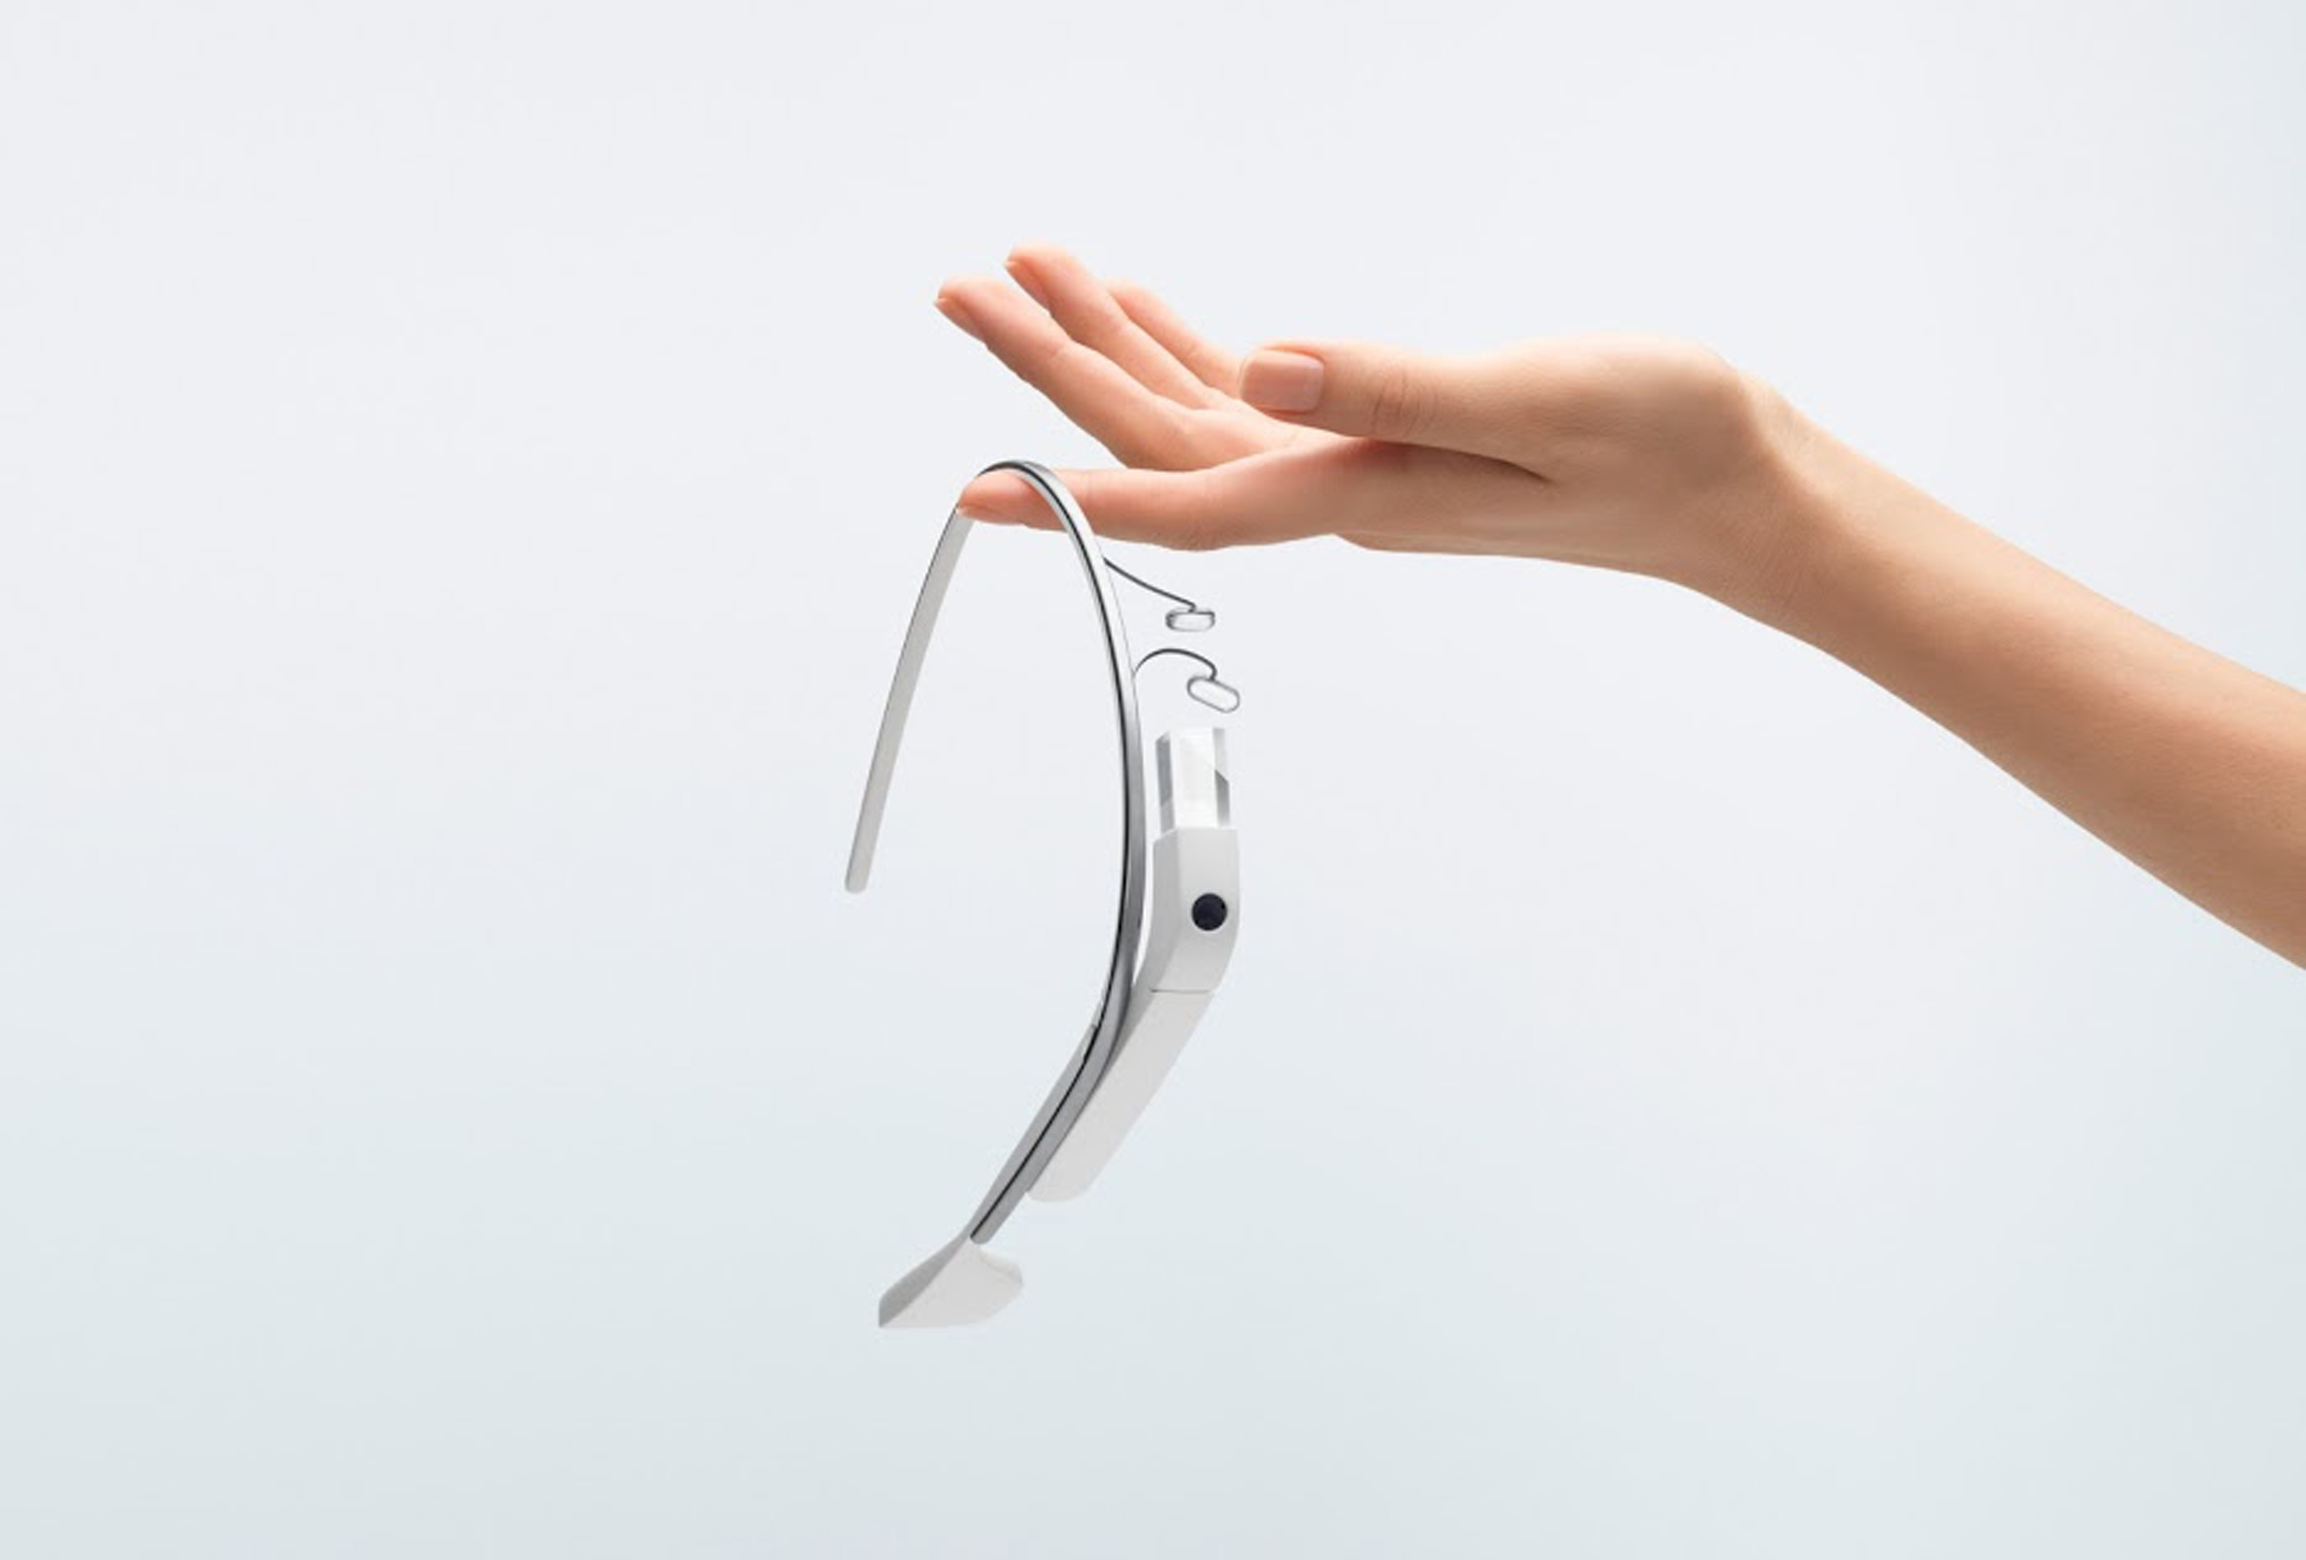
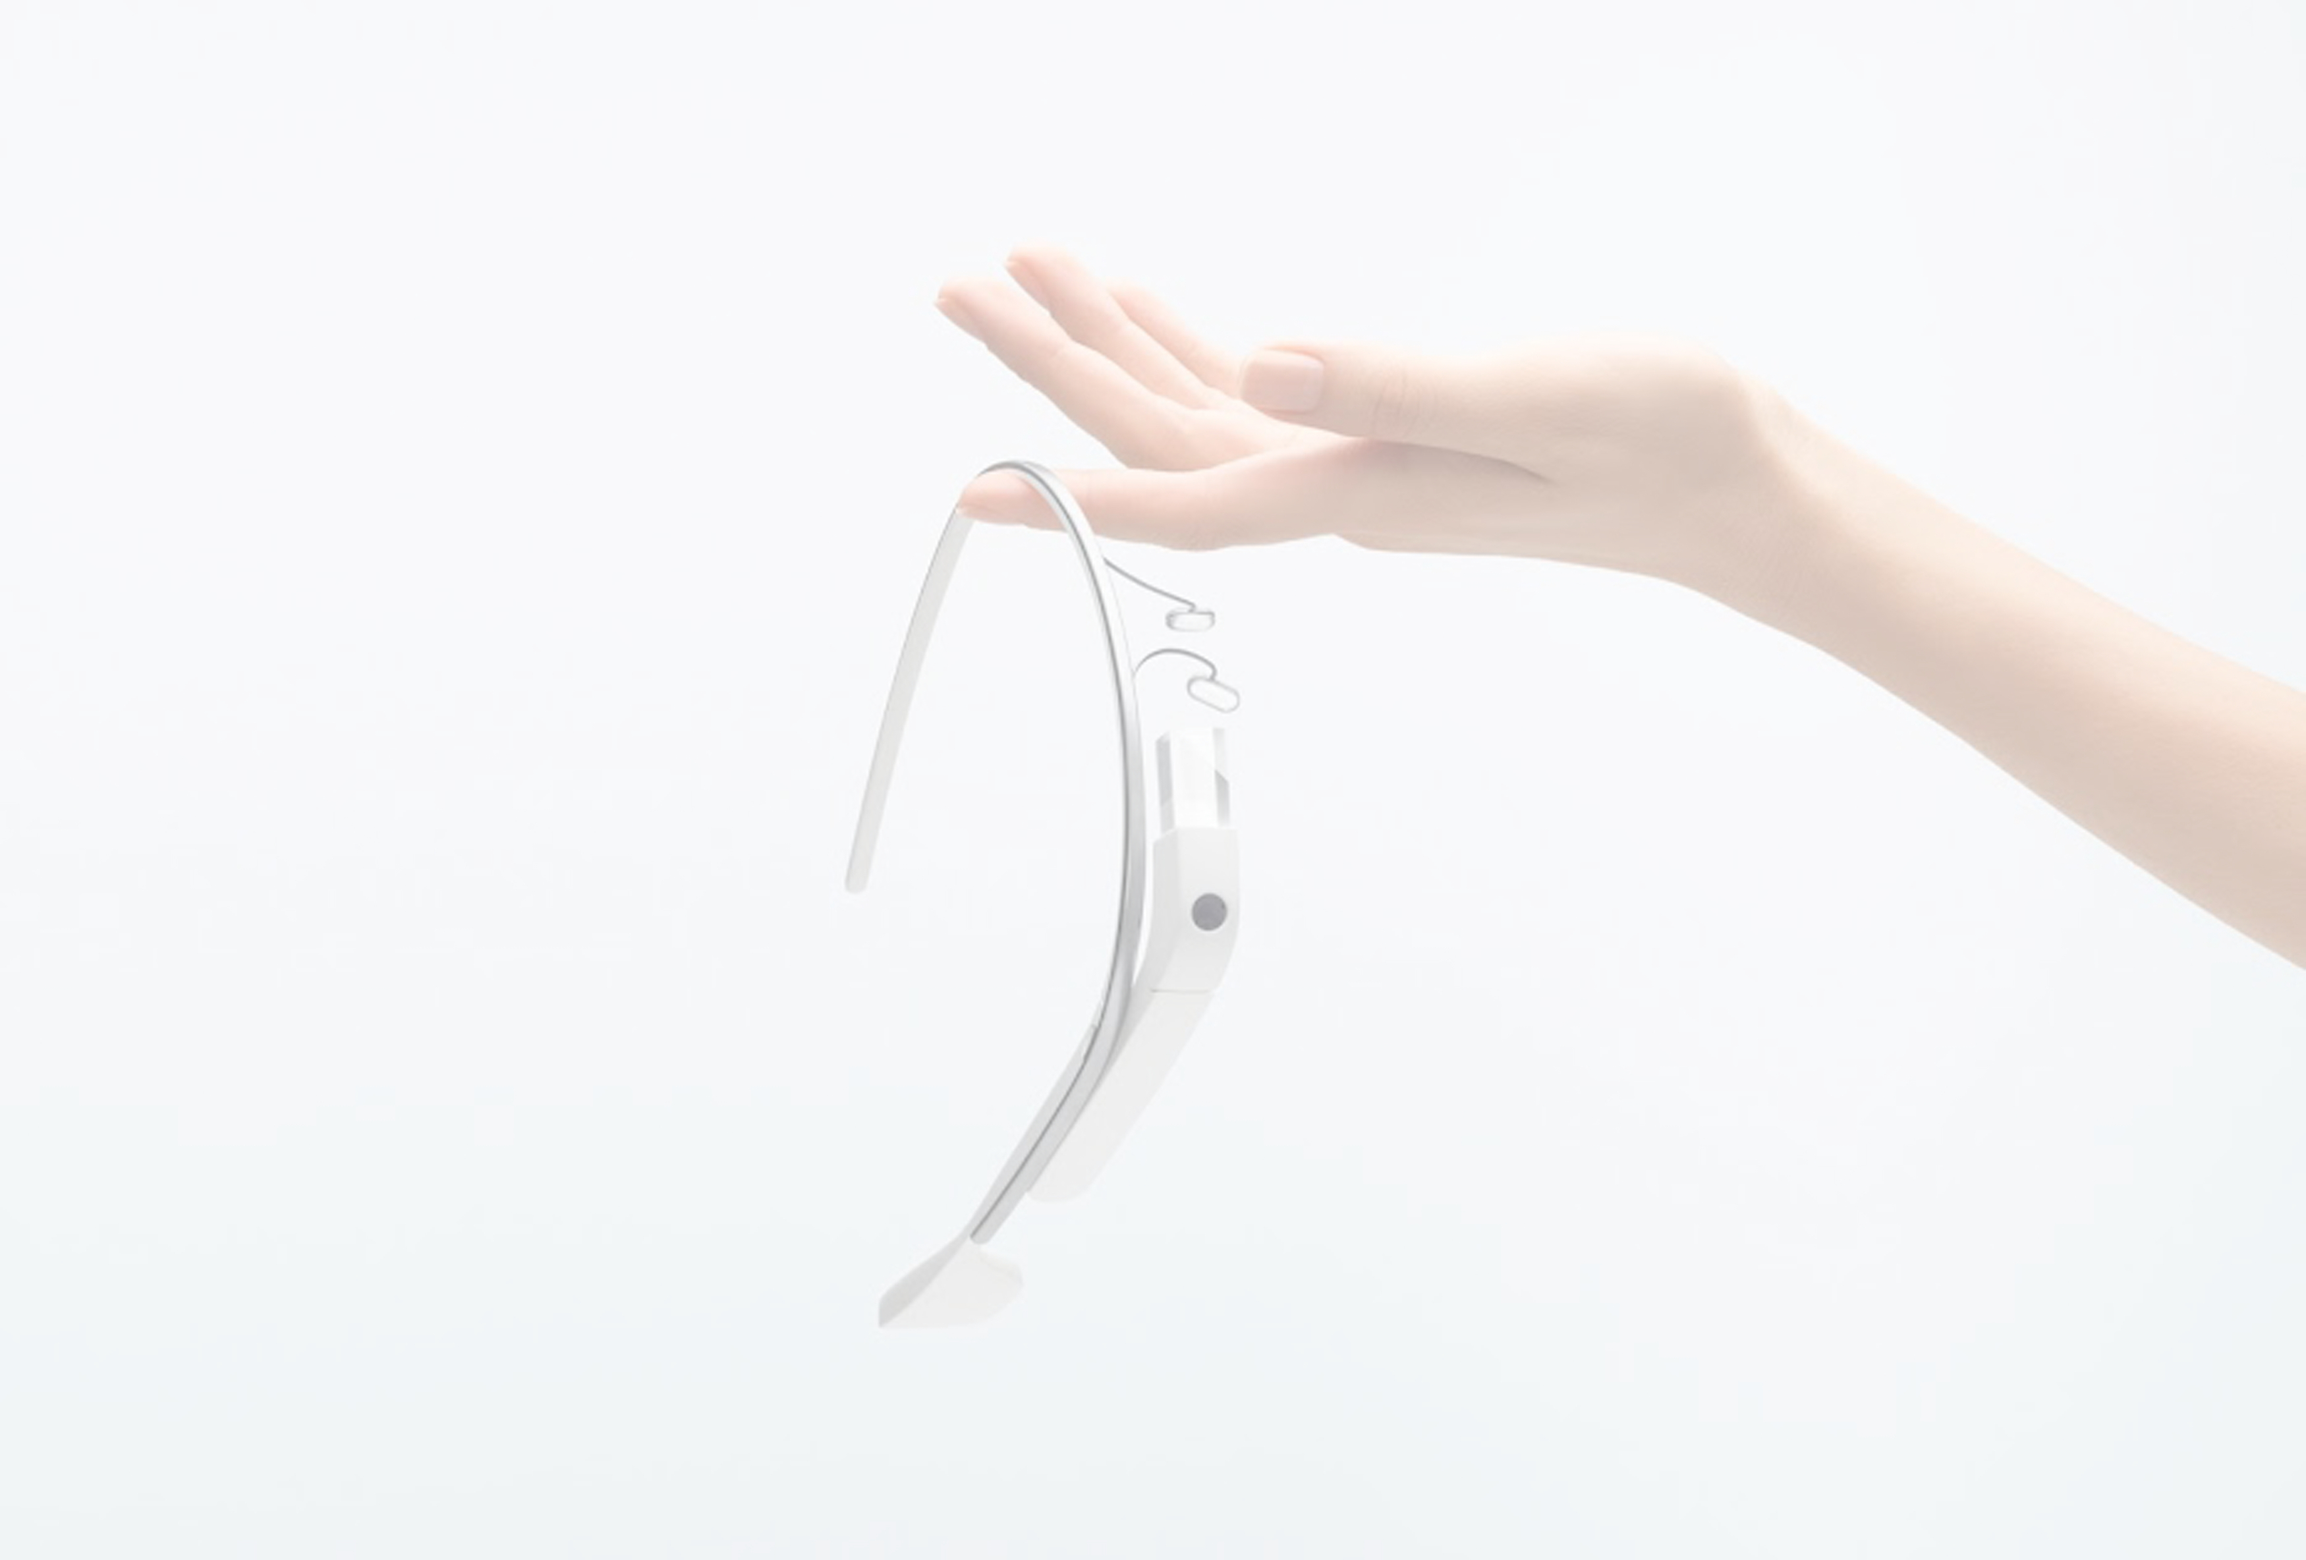
Changed background to make it lighter

Changed region(s): [[0.3737, 0.1562, 1.0, 0.875], [0.3426, 0.375, 0.4049, 0.5625]]

diff --git a/clarity/static/css/main.css b/clarity/static/css/main.css
@@ -12,7 +12,7 @@
 body {
   padding-top: 40px;
   padding-bottom: 40px;
-  background: url('/static/img/glass-at-your-fingertips.jpg') no-repeat center center fixed; 
+  background: url('/static/img/glass-at-your-fingertips-light.jpg') no-repeat center center fixed; 
   -webkit-background-size: cover;
   -moz-background-size: cover;
   -o-background-size: cover;
